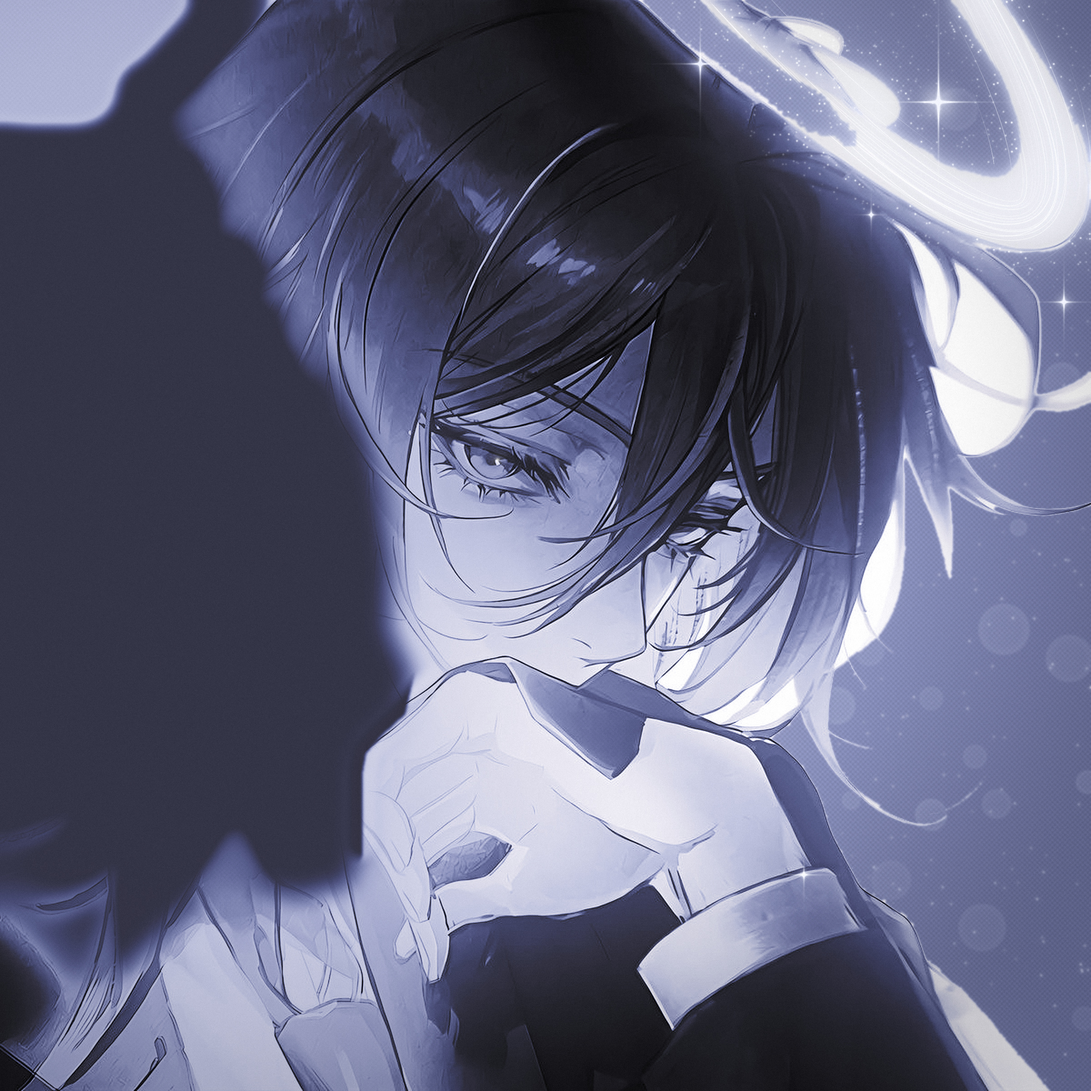
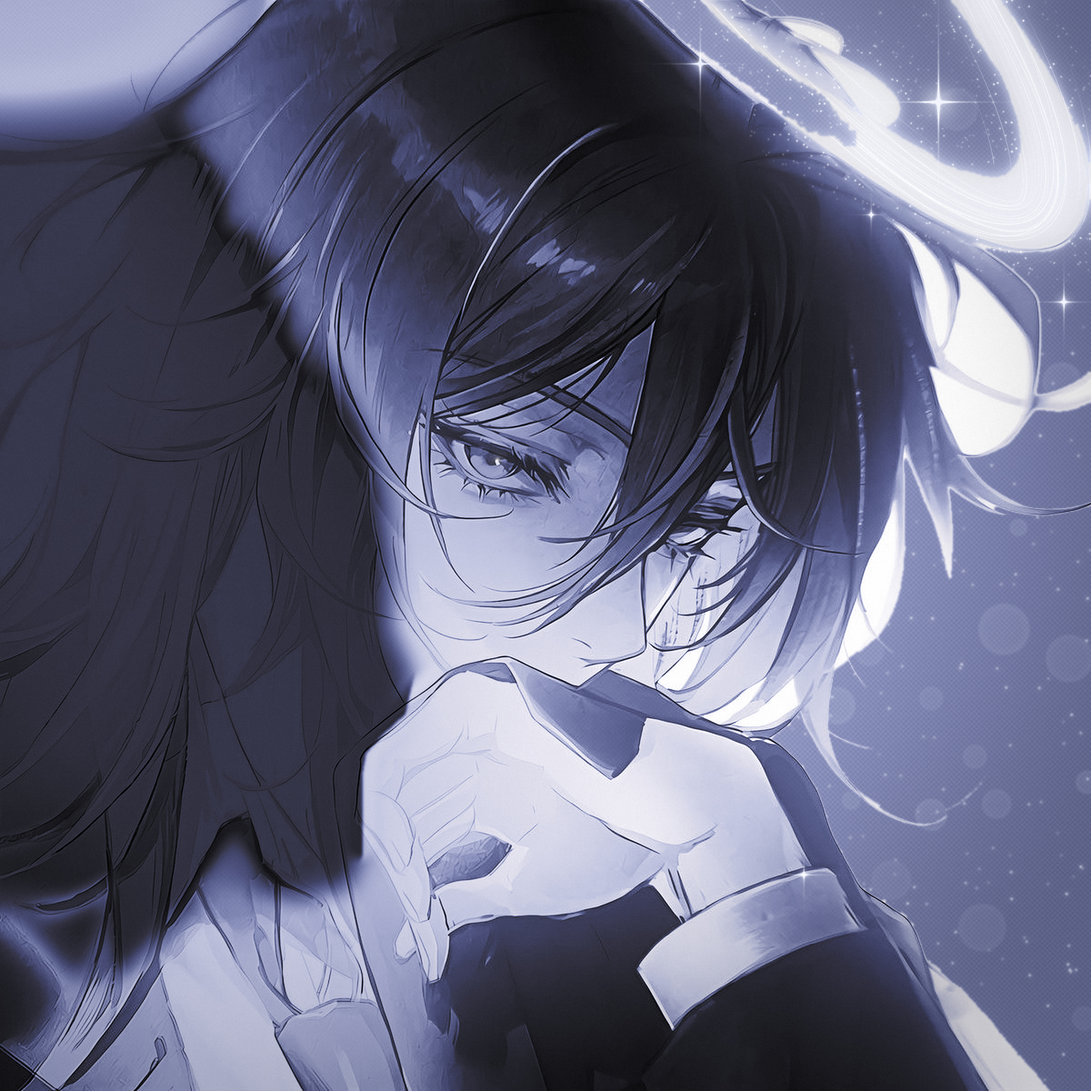
Anime art: left hair at the crown's tone with its drawn strands; new spear picture
The flat fill made the left hair a featureless blob. It now takes the
crown's navy (median 0.20 vs 0.21 flat) through the strand-keeping tone
curve, HAIR_K 0.27, so the original strands stay and nothing is added.

spear.jpg is recoloured with the edit's palette and gets the edit's halo,
mirrored and placed over the crown (wings_halo.py).

Claude-Session: https://claude.ai/code/session_01R1ufdM6Gy46JF29dPHPPpt

diff --git a/halo/beautify.py b/halo/beautify.py
@@ -4,10 +4,10 @@
 1. Resolution: the picture is enlarged 2x (Lanczos, mild unsharp mask) and
    everything below is drawn natively at that size; masks are found at 1x.
 2. Hair colour and highlights on the left: the long hair there was backlit to
-   white. Wherever the picture has strand texture (gaps closed up), inside
-   HAIR_POLY (sharp along the hand's drawn outline), it takes the crown's
-   colour as one flat tone, blended in by how light the hair is locally.
-   Elsewhere the highlights there were half pure white. Its
+   white. Inside HAIR_POLY (sharp along the hand's drawn outline, soft elsewhere,
+   fading out towards the sky in the top-left corner) it takes the dark hair's
+   tones, HAIR_K * L^HAIR_G, weighted by how light the hair is locally, so it
+   blends into the dark hair. Elsewhere the highlights there were half pure white. Its
    strands are still in the original's top tones (and in its blue channel,
    which clips far less), so those tones are rolled off from LEFT_KNEE up to
    LEFT_TOP with a shoulder that spreads them out instead of flattening them,
@@ -67,12 +67,10 @@ HAIR_POLY = [(300, 0), (0, 0), (0, 1080), (130, 1075), (240, 975), (330, 990), (
              (360, 380), (310, 250), (282, 120)]
 # the drawn outline of the hand: the hair edge is sharp only along it
 HAND_LINE = [(560, 722), (500, 740), (470, 760), (445, 785), (420, 808), (402, 828), (398, 850), (398, 925)]
-# the hair itself is where the picture has strand texture (edge density), so it ends
-# where the strands end and the sky begins, with no drawn edge there
-HAIR_DENSITY = 0.012       # edge density that counts as strands
-HAIR_CLOSE = 40             # px: wide strands with no lines inside the hair are hair too
-SKY_MIN = 8000              # px: smaller gaps left between the strands are hair as well
-HAIR_TONE = 0.26            # the crown hair's median tone in the original
+# the top-left corner is sky with a few strands: the hair fades out towards it over
+# a wide soft gradient (ellipse radii in px), so no hard edge separates them
+CORNER = (260.0, 110.0, 0.5, 1.6)
+HAIR_K, HAIR_G = 0.27, 1.8
 
 
 def masks(L):
@@ -142,8 +140,6 @@ def main():
     P = up(P1, (W, H))
     P = np.clip(P + 0.45 * (P - eh.gauss(P, 1.2)), 0.0, 1.0)
     L0 = P @ wh.LW
-    yy, xx = np.mgrid[0:H, 0:W].astype(np.float64)
-    X, Y = xx / S, yy / S                                            # 1x coordinates
     hair_poly = Image.new("L", (W1, H1), 0)
     ImageDraw.Draw(hair_poly).polygon(HAIR_POLY, fill=255)
     hair_poly = up(np.asarray(hair_poly, np.float64) / 255.0, (W, H))
@@ -154,23 +150,16 @@ def main():
     ImageDraw.Draw(line).line([(x * S, y * S) for x, y in HAND_LINE], fill=255, width=2)
     near = ss(28.0 * S, 10.0 * S, ndimage.distance_transform_edt(np.asarray(line) == 0))
     hair_poly = (1.0 - near) * eh.gauss(hair_poly, 12.0 * S) + near * eh.gauss(hair_poly, 1.5 * S)
-    L1x = P1 @ wh.LW
-    grad = np.hypot(ndimage.sobel(ndimage.gaussian_filter(L1x, 0.8), 0), ndimage.sobel(ndimage.gaussian_filter(L1x, 0.8), 1))
-    present = ndimage.gaussian_filter(ndimage.gaussian_filter(grad, 14.0), 10.0) > HAIR_DENSITY
-    r_ = HAIR_CLOSE
-    disk = np.hypot(*np.mgrid[-r_:r_ + 1, -r_:r_ + 1]) <= r_
-    present = ndimage.binary_closing(np.pad(present, r_ + 5, mode="edge"), structure=disk)[r_ + 5:-r_ - 5, r_ + 5:-r_ - 5]
-    sky, n_sky = ndimage.label(~present)
-    sizes = ndimage.sum(np.ones_like(L1x), sky, range(1, n_sky + 1))
-    present = ~np.isin(sky, 1 + np.nonzero(sizes >= SKY_MIN)[0])
-    present = ndimage.gaussian_filter(present.astype(np.float64), 6.0)   # a soft edge to the sky
-    hair_poly = hair_poly * np.clip(up(present, (W, H)), 0.0, 1.0)
+    cr, cyr, c0, c1 = CORNER
+    hair_poly = hair_poly * ss(c0, c1, np.hypot(gx / cr, gy / cyr))
     bg_raw = up(bg1.astype(np.float64), (W, H)) > 0.5
     bg = bg_raw & (hair_poly < 0.5)                                  # blown-out hair is not sky
     # how much the sky treatment applies: soft, fading out wherever the hair fades in
     bgw = (eh.gauss(ndimage.binary_dilation(bg_raw, iterations=S).astype(np.float64), S)
            * ss(0.80, 0.97, L0) * (1.0 - hair_poly))
     band = up(band1.astype(np.float64), (W, H)) > 0.5
+    yy, xx = np.mgrid[0:H, 0:W].astype(np.float64)
+    X, Y = xx / S, yy / S                                            # 1x coordinates
 
     # 2) highlights on the left: roll the top tones off with a spreading shoulder
     left = ss(0.62 * W1, 0.28 * W1, X)
@@ -181,11 +170,11 @@ def main():
     notbg = 1.0 - bgw
     Lr = L0 + left * notbg * (sh - L0)
 
-    # the light hair takes the crown's colour, flat: one tone (the crown's median before the
-    # S-curve), nothing added on it
-    Lh = HAIR_TONE
+    # the light hair takes the dark hair's colour; how much depends on how light the
+    # hair is around each pixel (local mean), so it blends into the dark hair smoothly
+    hair_src = L0 + ss(0.5, 0.95, L0) * (Ld - L0)
     hair_w = hair_poly * ss(0.45, 0.75, eh.gauss(L0, 12.0 * S))
-    Lr = Lr * (1.0 - hair_w) + hair_w * Lh
+    Lr = Lr * (1.0 - hair_w) + hair_w * HAIR_K * hair_src ** HAIR_G
 
     # 3) depth and local contrast
     L1 = np.interp(Lr, [0.0, 0.25, 0.5, 0.75, 1.0], [0.0, 0.2, 0.47, 0.76, 1.0])

diff --git a/halo/README.md b/halo/README.md
@@ -46,11 +46,17 @@
 
 لمسة فنية بنفس ستايل صورتك (`beautify.py`)، مرسومة بدقة مضاعفة:
 - **الجودة**: الصورة مكبّرة ×2 مع حدة خفيفة، وكل الإضافات مرسومة مباشرة على الدقة الكبيرة، فتطلع حادة. فيه نسخة JPEG أخف (`anime_art.jpg`، 2.1 ميجا).
-- **لون الشعر كامل**: الشعر الطويل اللي على اليسار كان أبيض من الإضاءة، والحين لونه واحد سادة، نفس لون الشعر اللي فوق الراس بالضبط، بدون ظلال ولا إضافات.
+- **لون الشعر كامل**: الشعر الطويل اللي على اليسار كان أبيض من الإضاءة، والحين بنفس لون الشعر اللي فوق الراس (كحلي)، وخطوط الخصل حقت الرسمة الأصلية باقية. ما فيه ظلال ولا نقشة مضافة.
 - **الوميض اللي على اليسار صار هادي**: الشعر اللي على اليسار كان نصه أبيض صافي، والحين ما فيه أي جزء فوق 85% سطوع. رجعت تفاصيل الخصل اللي كانت مخفية في البياض، والخلفية هناك لافندر هادي. التوهج والبوكيه والنقاط بعيدة عن هالجهة.
 - **الخلفية**: سما بنفسجي مزرق، أفتح شوي جهة الضوء على اليسار ويغمق كل ما بعدنا عنه. نقاط الطباعة بس في الأجزاء الغامقة.
 - **الحلقة**: تتوهج، ومكونة من خيوط نور رفيعة زي حلقتك، وحولها كم خيط طاير. معها نجوم بأربع أطراف ولمعات صغيرة.
 - **إضافات**: دواير نور ضبابية (بوكيه) ونقاط نور في الخلفية ورا الشخصية، ولمعة على طرف الكم، ولمعة في العين، وتغميق خفيف في الزوايا.
+
+## صورة الرمح (`spear_final.png`)
+
+صورة `spear.jpg` (الذهبية) صارت بنفس ألوان صورتك، وعليها نفس حلقتك (`wings_halo.py`، نفس طريقة صورة الجناح):
+- الذهبي صار بنفسجي مزرق ولافندر، والخلفية كحلي، والإضاءة والظل زي ما هم.
+- الحلقة معكوسة لأن الراس مايل للجهة الثانية، وميلانها 10°. مركزها فوق قمة الشعر، وحجمها 0.78 من حلقتك عشان تتناسب مع الراس.
 
 ## النسخ السابقة
 
